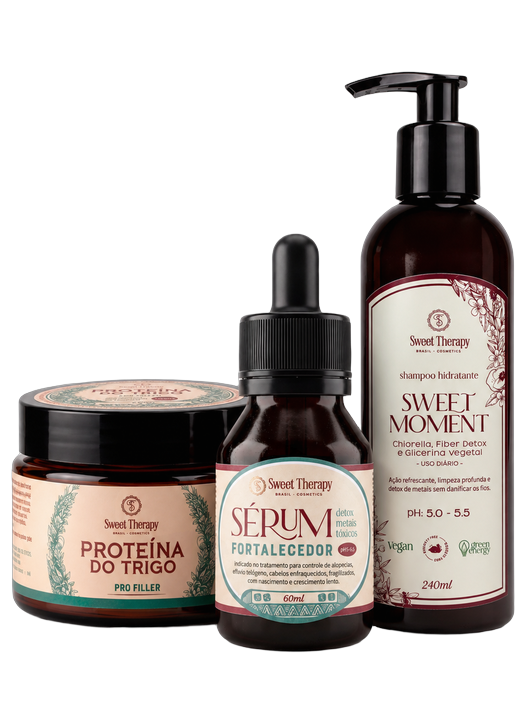
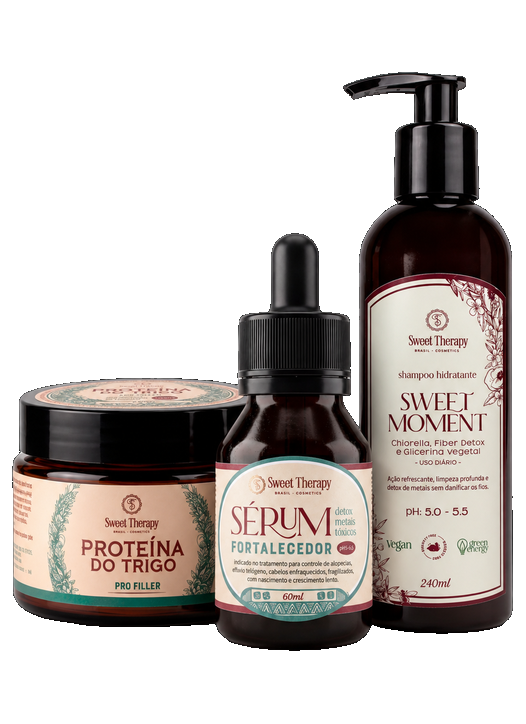
Remove fundo preto da oferta 3: alfa branco e evita AVIF em cache

Changed region(s): [[0.0, 0.3039, 1.0, 0.8812], [0.6388, 0.0912, 0.943, 0.3039], [0.6996, 0.3039, 0.73, 0.3343]]

diff --git a/src/components/OfferSelector.tsx b/src/components/OfferSelector.tsx
@@ -114,7 +114,7 @@ const protocols: ExtendedProtocol[] = [
       'Sérum Fortalecedor (60 ml)',
       'Shampoo Super Hidratante Sweet Moment 240ml'
     ],
-    imageUrl: '/products/protocolo-3-kit-cutout.webp',
+    imageUrl: '/products/protocolo-3-kit-cutout.webp?v=5',
     infoBox: 'Caso o seu cabelo também apresente oleosidade excessiva, dando o aspecto grudado e reduzindo o balanço natural, o Protocolo Completo prepara perfeitamente o terreno folicular da Raíz às pontas fazendo também um Detox no couro.',
     hasFreeShipping: true,
     checkoutUrl: 'https://pay.youshop.com.br/BRFYWVIZZTWAMNB1',
@@ -278,6 +278,7 @@ export default function OfferSelector({ selectedId, onSelect }: OfferSelectorPro
                 <div className="absolute inset-x-6 bottom-2 h-12 rounded-full bg-bordo/10 blur-xl" />
                 {protocol.imageUrl ? (
                   <picture className="relative z-10 w-full h-full flex items-center justify-center">
+                    {protocol.id !== 3 && (
                     <source
                       type="image/avif"
                       srcSet={
@@ -287,6 +288,7 @@ export default function OfferSelector({ selectedId, onSelect }: OfferSelectorPro
                       }
                       sizes="(max-width: 640px) 100vw, 50vw"
                     />
+                    )}
                     <source
                       type="image/webp"
                       srcSet={
